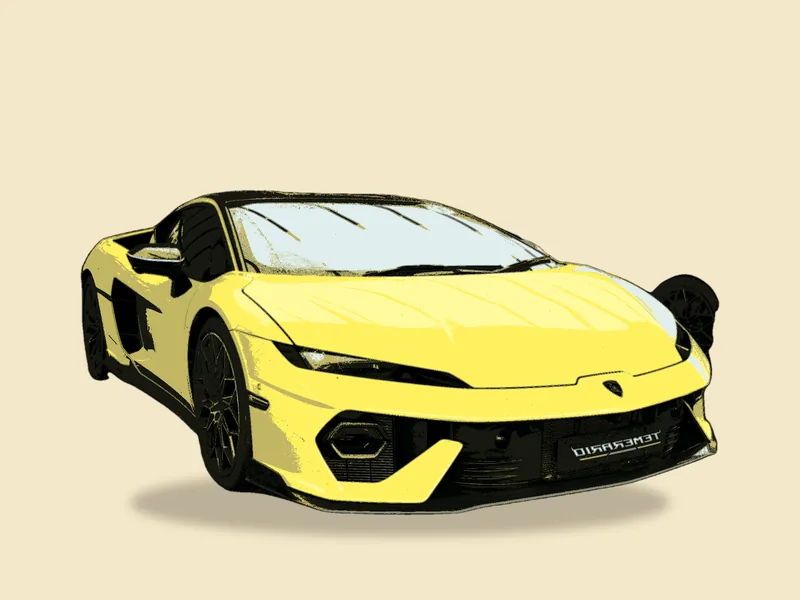
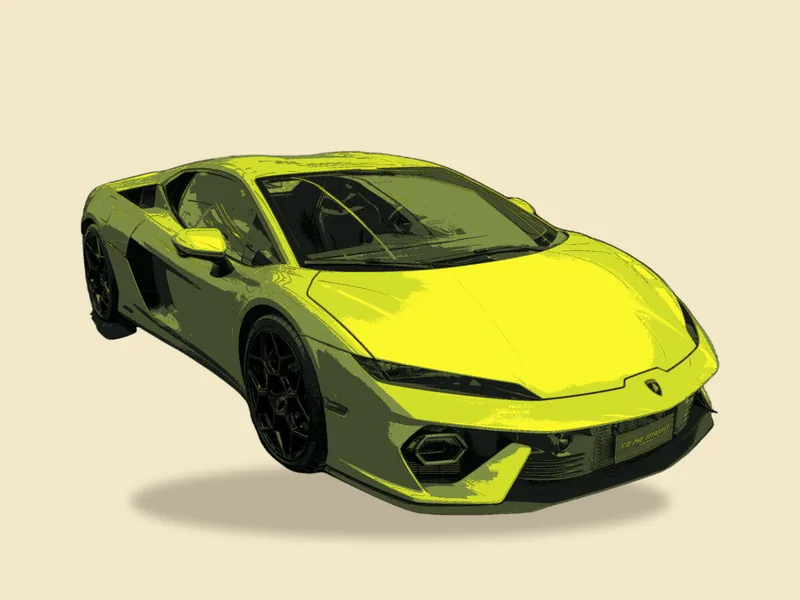
Re-source fifteen more cards after a review of every illustration
A card by card review found faults the automated checks cannot see: a
second Lamborghini merged behind the Temerario, a sign above the Celica's
roofline, a dark object over the MR2's cabin, falcon doors left open, plates
reading backwards on the Taycan and the Purosangue, and a torn F40 tail.

The Cybertruck was on a steep overhead view and is now on a low three-quarter
like its siblings, which also settles the angle noted when it was last
changed. Two carry a caveat: the C 300 photograph is titled as the diesel and
the Celica's as the 1.8 VVTi, both the same body and trim level as the card.

Every replacement shows one car, complete, isolated and facing the way the
track runs, rendered to a scratch directory and looked at first, then judged
again at card size. The folder is 3,402,716 bytes across 126 files.

The sixteenth card, the Challenger SRT Demon 170, is left alone: Commons has
one photograph of it and a rope barrier crosses the car.

diff --git a/public/art/CREDITS.md b/public/art/CREDITS.md
@@ -16,7 +16,7 @@ photographers.
 | aston-martin-dbx707 | Aston Martin DBX707 | [Aston Martin DBX707, Auto 2024, Zurich (PANA0773).jpg](https://commons.wikimedia.org/wiki/File%3AAston%20Martin%20DBX707%2C%20Auto%202024%2C%20Zurich%20%28PANA0773%29.jpg) | Matti Blume | [CC BY-SA 4.0](https://creativecommons.org/licenses/by-sa/4.0/deed.en) |
 | bentley-continental-gt-v8 | Bentley Continental GT V8 | [2019 Bentley Continental GT V8.jpg](https://commons.wikimedia.org/wiki/File%3A2019%20Bentley%20Continental%20GT%20V8.jpg) | Vauxford | [CC BY-SA 4.0](https://creativecommons.org/licenses/by-sa/4.0) |
 | bmw-330i | BMW 330i | [BMW 3-Series (G20) 330i xDrive (2024) (54017667555).jpg](https://commons.wikimedia.org/wiki/File%3ABMW%203-Series%20%28G20%29%20330i%20xDrive%20%282024%29%20%2854017667555%29.jpg) | Charles from Port Chester, New York | [CC BY 2.0](https://creativecommons.org/licenses/by/2.0) |
-| bmw-m3-competition | BMW M3 Competition | [BMW M3 Competition (G80) IMG 1176.jpg](https://commons.wikimedia.org/wiki/File%3ABMW%20M3%20Competition%20%28G80%29%20IMG%201176.jpg) | Alexander-93 | [CC BY-SA 4.0](https://creativecommons.org/licenses/by-sa/4.0) |
+| bmw-m3-competition | BMW M3 Competition | [BMW M3 COMPETITION (G80) China.jpg](https://commons.wikimedia.org/wiki/File%3ABMW%20M3%20COMPETITION%20%28G80%29%20China.jpg) | Dinkun Chen | [CC BY-SA 4.0](https://creativecommons.org/licenses/by-sa/4.0) |
 | bmw-m5-competition | BMW M5 Competition | [BMW M5 Competition (F90) Washington DC Metro Area, USA.jpg](https://commons.wikimedia.org/wiki/File%3ABMW%20M5%20Competition%20%28F90%29%20Washington%20DC%20Metro%20Area%2C%20USA.jpg) | OWS Photography | [CC BY 4.0](https://creativecommons.org/licenses/by/4.0) |
 | bmw-m8-competition | BMW M8 Competition | [BMW M8 Competition (F92) Greater Toronto Area, Canada (1).jpg](https://commons.wikimedia.org/wiki/File%3ABMW%20M8%20Competition%20%28F92%29%20Greater%20Toronto%20Area%2C%20Canada%20%281%29.jpg) | OWS Photography | [CC BY 4.0](https://creativecommons.org/licenses/by/4.0) |
 | bmw-x5-m | BMW X5 M | [BMW X5M (F95) Washington DC Metro Area, USA (1).jpg](https://commons.wikimedia.org/wiki/File%3ABMW%20X5M%20%28F95%29%20Washington%20DC%20Metro%20Area%2C%20USA%20%281%29.jpg) | OWS Photography | [CC BY 4.0](https://creativecommons.org/licenses/by/4.0) |
@@ -44,16 +44,16 @@ photographers.
 | ferrari-458-italia | Ferrari 458 Italia | [2011 Ferrari 458 Italia 3.jpg](https://commons.wikimedia.org/wiki/File%3A2011%20Ferrari%20458%20Italia%203.jpg) | Calreyn88 | [CC BY-SA 4.0](https://creativecommons.org/licenses/by-sa/4.0) |
 | ferrari-812-competizione | Ferrari 812 Competizione | [2023 Ferrari 812 Competizione Aperta 2.jpg](https://commons.wikimedia.org/wiki/File%3A2023%20Ferrari%20812%20Competizione%20Aperta%202.jpg) | Calreyn88 | [CC BY-SA 4.0](https://creativecommons.org/licenses/by-sa/4.0) |
 | ferrari-812-superfast | Ferrari 812 Superfast | [Ferrari 812 Superfast IMG 8829.jpg](https://commons.wikimedia.org/wiki/File%3AFerrari%20812%20Superfast%20IMG%208829.jpg) | Alexander-93 | [CC BY-SA 4.0](https://creativecommons.org/licenses/by-sa/4.0) |
-| ferrari-f40 | Ferrari F40 | [Ferrari F40 GIMS 2024 1X7A2271.jpg](https://commons.wikimedia.org/wiki/File%3AFerrari%20F40%20GIMS%202024%201X7A2271.jpg) | Alexander-93 | [CC BY-SA 4.0](https://creativecommons.org/licenses/by-sa/4.0) |
+| ferrari-f40 | Ferrari F40 | [1990 Ferrari F40 front.jpg](https://commons.wikimedia.org/wiki/File%3A1990%20Ferrari%20F40%20front.jpg) | TTTNIS | [CC0](http://creativecommons.org/publicdomain/zero/1.0/deed.en) |
 | ferrari-f430 | Ferrari F430 | [Ferrari ABA-F430 F430 (23112610123).jpg](https://commons.wikimedia.org/wiki/File%3AFerrari%20ABA-F430%20F430%20%2823112610123%29.jpg) | 先従隗始 | [CC0](http://creativecommons.org/publicdomain/zero/1.0/deed.en) |
-| ferrari-purosangue | Ferrari Purosangue | [2024 Ferrari Purosangue 6.jpg](https://commons.wikimedia.org/wiki/File%3A2024%20Ferrari%20Purosangue%206.jpg) | Calreyn88 | [CC BY-SA 4.0](https://creativecommons.org/licenses/by-sa/4.0) |
+| ferrari-purosangue | Ferrari Purosangue | [Ferrari Purosangue DSC 7008.jpg](https://commons.wikimedia.org/wiki/File%3AFerrari%20Purosangue%20DSC%207008.jpg) | Alexander Migl | [CC BY-SA 4.0](https://creativecommons.org/licenses/by-sa/4.0) |
 | ford-bronco-wildtrak | Ford Bronco Wildtrak | [2022 Ford Bronco Wildtrak, front 3.11.23.jpg](https://commons.wikimedia.org/wiki/File%3A2022%20Ford%20Bronco%20Wildtrak%2C%20front%203.11.23.jpg) | Kevauto | [CC BY-SA 4.0](https://creativecommons.org/licenses/by-sa/4.0) |
 | ford-f-150-lightning | Ford F-150 Lightning | [2022 Ford F-150 Lightning.jpg](https://commons.wikimedia.org/wiki/File%3A2022%20Ford%20F-150%20Lightning.jpg) | Calreyn88 | [CC BY-SA 4.0](https://creativecommons.org/licenses/by-sa/4.0) |
 | ford-f-150-raptor | Ford F-150 Raptor | [2021 Ford F-150 Raptor, front.jpg](https://commons.wikimedia.org/wiki/File%3A2021%20Ford%20F-150%20Raptor%2C%20front.jpg) | Kevauto | [CC BY-SA 4.0](https://creativecommons.org/licenses/by-sa/4.0) |
 | ford-f-150-raptor-r | Ford F-150 Raptor R | [23 Ford F-150 Raptor R.jpg](https://commons.wikimedia.org/wiki/File%3A23%20Ford%20F-150%20Raptor%20R.jpg) | HJUdall | [CC0](http://creativecommons.org/publicdomain/zero/1.0/deed.en) |
 | ford-f-150-xlt | Ford F-150 XLT | [Ford F-150 V8 XLT 2021.jpg](https://commons.wikimedia.org/wiki/File%3AFord%20F-150%20V8%20XLT%202021.jpg) | RL GNZLZ | [CC BY-SA 4.0](https://creativecommons.org/licenses/by-sa/4.0) |
 | ford-mustang-1965-six | Ford Mustang 200 Six (1965) | [1965 Ford Mustang Hardtop (14517078762).jpg](https://commons.wikimedia.org/wiki/File%3A1965%20Ford%20Mustang%20Hardtop%20%2814517078762%29.jpg) | Sicnag | [CC BY 2.0](https://creativecommons.org/licenses/by/2.0) |
-| ford-mustang-289 | Ford Mustang 289 | [1967 Ford Mustang hardtop, red, Golden Super Cruise 2026-07-04.jpg](https://commons.wikimedia.org/wiki/File%3A1967%20Ford%20Mustang%20hardtop%2C%20red%2C%20Golden%20Super%20Cruise%202026-07-04.jpg) | Xnatedawgx | [CC BY-SA 4.0](https://creativecommons.org/licenses/by-sa/4.0) |
+| ford-mustang-289 | Ford Mustang 289 | [1967 Ford Mustang Hardtop in Dark Moss Green Poly, Front Left, 04-28-2023.jpg](https://commons.wikimedia.org/wiki/File%3A1967%20Ford%20Mustang%20Hardtop%20in%20Dark%20Moss%20Green%20Poly%2C%20Front%20Left%2C%2004-28-2023.jpg) | Elise240SX | [CC BY-SA 4.0](https://creativecommons.org/licenses/by-sa/4.0) |
 | ford-mustang-gt | Ford Mustang GT | [Ford Mustang Fastback 5.0 GT (54185175396).jpg](https://commons.wikimedia.org/wiki/File%3AFord%20Mustang%20Fastback%205.0%20GT%20%2854185175396%29.jpg) | Alexandre Prevot from Nancy, France | [CC BY-SA 2.0](https://creativecommons.org/licenses/by-sa/2.0) |
 | ford-mustang-mach-1 | Ford Mustang Mach 1 (2021) | [Ford Mustang VI Mach I Auto Zuerich 2021 IMG 0117.jpg](https://commons.wikimedia.org/wiki/File%3AFord%20Mustang%20VI%20Mach%20I%20Auto%20Zuerich%202021%20IMG%200117.jpg) | Alexander Migl | [CC BY-SA 4.0](https://creativecommons.org/licenses/by-sa/4.0) |
 | ford-mustang-mach-e-gt | Ford Mustang Mach-E GT | [Ford Mustang Mach-E GT IAA 2021 1X7A0176.jpg](https://commons.wikimedia.org/wiki/File%3AFord%20Mustang%20Mach-E%20GT%20IAA%202021%201X7A0176.jpg) | Alexander Migl | [CC BY-SA 4.0](https://creativecommons.org/licenses/by-sa/4.0) |
@@ -70,9 +70,9 @@ photographers.
 | kia-ev6-gt | Kia EV6 GT | [KIA EV6 GT China.jpg](https://commons.wikimedia.org/wiki/File%3AKIA%20EV6%20GT%20China.jpg) | Dinkun Chen | [CC BY-SA 4.0](https://creativecommons.org/licenses/by-sa/4.0) |
 | lamborghini-aventador-svj | Lamborghini Aventador SVJ | [Lamborghini Aventador SVJ 13.jpg](https://commons.wikimedia.org/wiki/File%3ALamborghini%20Aventador%20SVJ%2013.jpg) | Calreyn88 | [CC BY-SA 4.0](https://creativecommons.org/licenses/by-sa/4.0) |
 | lamborghini-murcielago-lp640 | Lamborghini Murciélago LP640 | [Lamborghini Murcielago LP640 LC23.jpg](https://commons.wikimedia.org/wiki/File%3ALamborghini%20Murcielago%20LP640%20LC23.jpg) | MrWalkr | [CC BY-SA 4.0](https://creativecommons.org/licenses/by-sa/4.0) |
-| lamborghini-temerario | Lamborghini Temerario | [Lamborghini Temerario at the 2026 Adelaide Motorsport Festival (DSCF2498).jpg](https://commons.wikimedia.org/wiki/File%3ALamborghini%20Temerario%20at%20the%202026%20Adelaide%20Motorsport%20Festival%20%28DSCF2498%29.jpg) | Yu Chu Chin | [CC BY-SA 4.0](https://creativecommons.org/licenses/by-sa/4.0) |
-| lamborghini-urus | Lamborghini Urus | [Lamborghini Urus S 1X7A6796.jpg](https://commons.wikimedia.org/wiki/File%3ALamborghini%20Urus%20S%201X7A6796.jpg) | Alexander-93 | [CC BY-SA 4.0](https://creativecommons.org/licenses/by-sa/4.0) |
-| lamborghini-urus-se | Lamborghini Urus SE | [2025 Lamborghini Urus SE PHEV - 3996cc 4.0 (789PS) PHEV - Blu Aegir - 02-2025, Front.jpg](https://commons.wikimedia.org/wiki/File%3A2025%20Lamborghini%20Urus%20SE%20PHEV%20-%203996cc%204.0%20%28789PS%29%20PHEV%20-%20Blu%20Aegir%20-%2002-2025%2C%20Front.jpg) | Harvey Bold | [CC0](http://creativecommons.org/publicdomain/zero/1.0/deed.en) |
+| lamborghini-temerario | Lamborghini Temerario | [Lamborghini Temerario.jpg](https://commons.wikimedia.org/wiki/File%3ALamborghini%20Temerario.jpg) | Alexandre Prevot | [CC BY-SA 2.0](https://creativecommons.org/licenses/by-sa/2.0) |
+| lamborghini-urus | Lamborghini Urus | [Lamborghini Urus oblique view dllu 01.jpg](https://commons.wikimedia.org/wiki/File%3ALamborghini%20Urus%20oblique%20view%20dllu%2001.jpg) | Dllu | [CC BY-SA 4.0](https://creativecommons.org/licenses/by-sa/4.0) |
+| lamborghini-urus-se | Lamborghini Urus SE | [Lamborghini Urus SE 001.jpg](https://commons.wikimedia.org/wiki/File%3ALamborghini%20Urus%20SE%20001.jpg) | JustAnotherCarDesigner | [CC0](http://creativecommons.org/publicdomain/zero/1.0/deed.en) |
 | land-rover-defender-110 | Land Rover Defender 110 | [Land Rover Defender 110 (L663) 1X7A1919.jpg](https://commons.wikimedia.org/wiki/File%3ALand%20Rover%20Defender%20110%20%28L663%29%201X7A1919.jpg) | Alexander-93 | [CC BY-SA 4.0](https://creativecommons.org/licenses/by-sa/4.0) |
 | lexus-es-250 | Lexus ES 250 | [LEXUS ES 200 (XZ10) China (184).jpg](https://commons.wikimedia.org/wiki/File%3ALEXUS%20ES%20200%20%28XZ10%29%20China%20%28184%29.jpg) | Dinkun Chen | [CC BY-SA 4.0](https://creativecommons.org/licenses/by-sa/4.0) |
 | lexus-is-300 | Lexus IS 300 | [2021 Lexus IS 300 AWD, front 3.26.21.jpg](https://commons.wikimedia.org/wiki/File%3A2021%20Lexus%20IS%20300%20AWD%2C%20front%203.26.21.jpg) | Kevauto | [CC BY-SA 4.0](https://creativecommons.org/licenses/by-sa/4.0) |
@@ -90,7 +90,7 @@ photographers.
 | mercedes-amg-c-63-s | Mercedes-AMG C 63 S (W205) | [MERCEDES-AMG C 63 (W205) (3).jpg](https://commons.wikimedia.org/wiki/File%3AMERCEDES-AMG%20C%2063%20%28W205%29%20%283%29.jpg) | Dinkun Chen | [CC BY-SA 4.0](https://creativecommons.org/licenses/by-sa/4.0) |
 | mercedes-amg-g-63 | Mercedes-AMG G 63 | [MERCEDES-AMG G 63 (W463) China (3).jpg](https://commons.wikimedia.org/wiki/File%3AMERCEDES-AMG%20G%2063%20%28W463%29%20China%20%283%29.jpg) | Dinkun Chen | [CC BY-SA 4.0](https://creativecommons.org/licenses/by-sa/4.0) |
 | mercedes-amg-gt-r | Mercedes-AMG GT R | [Mercedes-AMG GT R Coupé (C190, 2021) (52229185921).jpg](https://commons.wikimedia.org/wiki/File%3AMercedes-AMG%20GT%20R%20Coup%C3%A9%20%28C190%2C%202021%29%20%2852229185921%29.jpg) | Charles from Port Chester, New York | [CC BY 2.0](https://creativecommons.org/licenses/by/2.0) |
-| mercedes-benz-c-300 | Mercedes-Benz C 300 | [Mercedes-Benz W206 C 300 4MATIC AMG Line Polar White (6).jpg](https://commons.wikimedia.org/wiki/File%3AMercedes-Benz%20W206%20C%20300%204MATIC%20AMG%20Line%20Polar%20White%20%286%29.jpg) | Damian B Oh | [CC BY-SA 4.0](https://creativecommons.org/licenses/by-sa/4.0) |
+| mercedes-benz-c-300 | Mercedes-Benz C 300 | [Mercedes-Benz C 300 d AMG Line (W 206) – f 10032024.jpg](https://commons.wikimedia.org/wiki/File%3AMercedes-Benz%20C%20300%20d%20AMG%20Line%20%28W%20206%29%20%E2%80%93%20f%2010032024.jpg) | © M 93 | [CC BY-SA 3.0 de](https://creativecommons.org/licenses/by-sa/3.0/de/deed.en) |
 | mercedes-benz-e-300 | Mercedes-Benz E 300 | [Mercedes-Benz E300 (W213) Washington DC Metro Area, USA (3).jpg](https://commons.wikimedia.org/wiki/File%3AMercedes-Benz%20E300%20%28W213%29%20Washington%20DC%20Metro%20Area%2C%20USA%20%283%29.jpg) | OWS Photography | [CC BY 4.0](https://creativecommons.org/licenses/by/4.0) |
 | mitsubishi-lancer-evolution-ix | Mitsubishi Lancer Evolution IX | [Mitsubishi Lancer Evolution IX (28469868127).jpg](https://commons.wikimedia.org/wiki/File%3AMitsubishi%20Lancer%20Evolution%20IX%20%2828469868127%29.jpg) | FotoSleuth | [CC BY 2.0](https://creativecommons.org/licenses/by/2.0) |
 | nissan-240sx-s14 | Nissan 240SX (S14) | [1996 Nissan 240SX S14.jpg](https://commons.wikimedia.org/wiki/File%3A1996%20Nissan%20240SX%20S14.jpg) | Calreyn88 | [CC BY-SA 4.0](https://creativecommons.org/licenses/by-sa/4.0) |
@@ -102,13 +102,13 @@ photographers.
 | nissan-skyline-gt-r-r34 | Nissan Skyline GT-R | [Nissan Skyline GT-R R34, 09-21-2025.jpg](https://commons.wikimedia.org/wiki/File%3ANissan%20Skyline%20GT-R%20R34%2C%2009-21-2025.jpg) | 2000chevymontecarlo | [CC BY-SA 4.0](https://creativecommons.org/licenses/by-sa/4.0) |
 | plymouth-hemi-cuda | Plymouth Hemi 'Cuda | [1970 Plymouth Hemi 'Cuda (31006971013).jpg](https://commons.wikimedia.org/wiki/File%3A1970%20Plymouth%20Hemi%20%27Cuda%20%2831006971013%29.jpg) | Greg Gjerdingen from Willmar, USA | [CC BY 2.0](https://creativecommons.org/licenses/by/2.0) |
 | pontiac-firebird-trans-am-1977 | Pontiac Firebird Trans Am | [1977 Pontiac Firebird Trans Am, front right, 06-21-2023.jpg](https://commons.wikimedia.org/wiki/File%3A1977%20Pontiac%20Firebird%20Trans%20Am%2C%20front%20right%2C%2006-21-2023.jpg) | MercurySable99 | [CC BY-SA 4.0](https://creativecommons.org/licenses/by-sa/4.0) |
-| porsche-718-cayman-gts | Porsche 718 Cayman GTS 4.0 | [2022 Porsche 718 Cayman GTS (24806).jpg](https://commons.wikimedia.org/wiki/File%3A2022%20Porsche%20718%20Cayman%20GTS%20%2824806%29.jpg) | Calreyn88 | [CC BY-SA 4.0](https://creativecommons.org/licenses/by-sa/4.0) |
+| porsche-718-cayman-gts | Porsche 718 Cayman GTS 4.0 | [Porsche 718 Cayman GTS - 54636142147.jpg](https://commons.wikimedia.org/wiki/File%3APorsche%20718%20Cayman%20GTS%20-%2054636142147.jpg) | Alexandre Prevot | [CC BY-SA 4.0](https://creativecommons.org/licenses/by-sa/4.0) |
 | porsche-911-carrera-s | Porsche 911 Carrera S | [Porsche 992 Carrera S coupe IMG 5832.jpg](https://commons.wikimedia.org/wiki/File%3APorsche%20992%20Carrera%20S%20coupe%20IMG%205832.jpg) | Alexander Migl | [CC BY-SA 4.0](https://creativecommons.org/licenses/by-sa/4.0) |
 | porsche-911-gt3-992 | Porsche 911 GT3 | [Porsche 992 GT3 1X7A0323.jpg](https://commons.wikimedia.org/wiki/File%3APorsche%20992%20GT3%201X7A0323.jpg) | Alexander Migl | [CC BY-SA 4.0](https://creativecommons.org/licenses/by-sa/4.0) |
 | porsche-911-turbo-s-992 | Porsche 911 Turbo S (992) | [Porsche 911 Turbo S (992) Greater Toronto Area, Canada.jpg](https://commons.wikimedia.org/wiki/File%3APorsche%20911%20Turbo%20S%20%28992%29%20Greater%20Toronto%20Area%2C%20Canada.jpg) | OWS Photography | [CC BY 4.0](https://creativecommons.org/licenses/by/4.0) |
 | porsche-914 | Porsche 914 (1.7) | [2007-06-17 VW-Porsche 914 (kl).JPG](https://commons.wikimedia.org/wiki/File%3A2007-06-17%20VW-Porsche%20914%20%28kl%29.JPG) | Spurzem | [CC BY-SA 2.0 de](https://creativecommons.org/licenses/by-sa/2.0/de/deed.en) |
 | porsche-boxster-s-987 | Porsche Boxster S (987) | [2008 Porsche 987 Boxster (15225082412).jpg](https://commons.wikimedia.org/wiki/File%3A2008%20Porsche%20987%20Boxster%20%2815225082412%29.jpg) | free photos & art | [CC BY 2.0](https://creativecommons.org/licenses/by/2.0) |
-| porsche-taycan-turbo-s | Porsche Taycan Turbo S | [2020 Porsche Taycan Turbo S (21742).jpg](https://commons.wikimedia.org/wiki/File%3A2020%20Porsche%20Taycan%20Turbo%20S%20%2821742%29.jpg) | Calreyn88 | [CC BY-SA 4.0](https://creativecommons.org/licenses/by-sa/4.0) |
+| porsche-taycan-turbo-s | Porsche Taycan Turbo S | [Porsche Taycan Turbo S White (1).jpg](https://commons.wikimedia.org/wiki/File%3APorsche%20Taycan%20Turbo%20S%20White%20%281%29.jpg) | Damian B Oh | [CC BY-SA 4.0](https://creativecommons.org/licenses/by-sa/4.0) |
 | ram-1500-trx | Ram 1500 TRX | [Ram 1500 TRX (13803).jpg](https://commons.wikimedia.org/wiki/File%3ARam%201500%20TRX%20%2813803%29.jpg) | Calreyn88 | [CC BY-SA 4.0](https://creativecommons.org/licenses/by-sa/4.0) |
 | range-rover-p530 | Range Rover | [Range Rover (L460) Washington DC Metro Area, USA (8).jpg](https://commons.wikimedia.org/wiki/File%3ARange%20Rover%20%28L460%29%20Washington%20DC%20Metro%20Area%2C%20USA%20%288%29.jpg) | OWS Photography | [CC BY 4.0](https://creativecommons.org/licenses/by/4.0) |
 | rimac-nevera | Rimac Nevera | [Rimac - Nevera 10.jpg](https://commons.wikimedia.org/wiki/File%3ARimac%20-%20Nevera%2010.jpg) | Miroslav | [CC BY-SA 4.0](https://creativecommons.org/licenses/by-sa/4.0) |
@@ -116,19 +116,19 @@ photographers.
 | rolls-royce-phantom | Rolls-Royce Phantom | [Rolls-Royce Phantom, Geneva International Motor Show 2018, Le Grand-Saconnex (1X7A1220).jpg](https://commons.wikimedia.org/wiki/File%3ARolls-Royce%20Phantom%2C%20Geneva%20International%20Motor%20Show%202018%2C%20Le%20Grand-Saconnex%20%281X7A1220%29.jpg) | Matti Blume | [CC BY-SA 4.0](https://creativecommons.org/licenses/by-sa/4.0) |
 | rolls-royce-wraith | Rolls-Royce Wraith | [Rolls-Royce Wraith (II) Washington DC Metro Area, USA (1.2).jpg](https://commons.wikimedia.org/wiki/File%3ARolls-Royce%20Wraith%20%28II%29%20Washington%20DC%20Metro%20Area%2C%20USA%20%281.2%29.jpg) | OWS Photography | [CC BY 4.0](https://creativecommons.org/licenses/by/4.0) |
 | subaru-wrx-sti | Subaru WRX STI | [Subaru WRX STI - Blue.jpg](https://commons.wikimedia.org/wiki/File%3ASubaru%20WRX%20STI%20-%20Blue.jpg) | Motor Verso | [CC BY 2.0](https://creativecommons.org/licenses/by/2.0) |
-| tesla-cybertruck-cyberbeast | Tesla Cybertruck Cyberbeast | [Tesla Cybertruck Washington DC Metro Area, USA (5).jpg](https://commons.wikimedia.org/wiki/File%3ATesla%20Cybertruck%20Washington%20DC%20Metro%20Area%2C%20USA%20%285%29.jpg) | OWS Photography | [CC BY 4.0](https://creativecommons.org/licenses/by/4.0) |
+| tesla-cybertruck-cyberbeast | Tesla Cybertruck Cyberbeast | [2024 Tesla Cybertruck Foundation Series IMG 0576.jpg](https://commons.wikimedia.org/wiki/File%3A2024%20Tesla%20Cybertruck%20Foundation%20Series%20IMG%200576.jpg) | Alexander-93 | [CC BY-SA 4.0](https://creativecommons.org/licenses/by-sa/4.0) |
 | tesla-model-3-performance | Tesla Model 3 Performance | [2024 Tesla Model 3 Performance front view 03.png](https://commons.wikimedia.org/wiki/File%3A2024%20Tesla%20Model%203%20Performance%20front%20view%2003.png) | iMoD Official | [CC BY 3.0](https://creativecommons.org/licenses/by/3.0) |
 | tesla-model-s-plaid | Tesla Model S Plaid | [22 Tesla Model S Plaid.jpg](https://commons.wikimedia.org/wiki/File%3A22%20Tesla%20Model%20S%20Plaid.jpg) | HJUdall | [CC0](http://creativecommons.org/publicdomain/zero/1.0/deed.en) |
 | tesla-model-x-plaid | Tesla Model X Plaid | [Tesla Model X Plaid Shadow Grey 01.jpg](https://commons.wikimedia.org/wiki/File%3ATesla%20Model%20X%20Plaid%20Shadow%20Grey%2001.jpg) | Ethan Llamas | [CC BY-SA 4.0](https://creativecommons.org/licenses/by-sa/4.0) |
 | tesla-model-y | Tesla Model Y | [Tesla Model Y 1X7A6211.jpg](https://commons.wikimedia.org/wiki/File%3ATesla%20Model%20Y%201X7A6211.jpg) | Alexander Migl | [CC BY-SA 4.0](https://creativecommons.org/licenses/by-sa/4.0) |
 | toyota-4runner-sr5 | Toyota 4Runner SR5 | [23 Toyota 4Runner SR5.jpg](https://commons.wikimedia.org/wiki/File%3A23%20Toyota%204Runner%20SR5.jpg) | HJUdall | [CC0](http://creativecommons.org/publicdomain/zero/1.0/deed.en) |
-| toyota-celica-gt-s | Toyota Celica GT-S (2000) | [Toyota CELICA 1.8 SS-I (ST230) front.JPG](https://commons.wikimedia.org/wiki/File%3AToyota%20CELICA%201.8%20SS-I%20%28ST230%29%20front.JPG) | Tokumeigakarinoaoshima | [CC0](http://creativecommons.org/publicdomain/zero/1.0/deed.en) |
+| toyota-celica-gt-s | Toyota Celica GT-S (2000) | [2003 Toyota Celica VVTi 1.8.jpg](https://commons.wikimedia.org/wiki/File%3A2003%20Toyota%20Celica%20VVTi%201.8.jpg) | Vauxford | [CC BY-SA 4.0](https://creativecommons.org/licenses/by-sa/4.0) |
 | toyota-corolla-ae86 | Toyota Corolla GT-S | [Toyota Corolla GT-S (AE86, 1986) (54804789331).jpg](https://commons.wikimedia.org/wiki/File%3AToyota%20Corolla%20GT-S%20%28AE86%2C%201986%29%20%2854804789331%29.jpg) | Charles from Port Chester, New York | [CC0](http://creativecommons.org/publicdomain/zero/1.0/deed.en) |
-| toyota-gr-supra-3-0 | Toyota GR Supra 3.0 | [Dülmen, Auto Bertels, Toyota GR Supra -- 2021 -- 9539.jpg](https://commons.wikimedia.org/wiki/File%3AD%C3%BClmen%2C%20Auto%20Bertels%2C%20Toyota%20GR%20Supra%20--%202021%20--%209539.jpg) | Dietmar Rabich | [CC BY-SA 4.0](https://creativecommons.org/licenses/by-sa/4.0) |
+| toyota-gr-supra-3-0 | Toyota GR Supra 3.0 | [2023 Toyota GR Supra 3.0 in Cu Later, Front Left, 04-23-2023.jpg](https://commons.wikimedia.org/wiki/File%3A2023%20Toyota%20GR%20Supra%203.0%20in%20Cu%20Later%2C%20Front%20Left%2C%2004-23-2023.jpg) | Elise240SX | [CC BY-SA 4.0](https://creativecommons.org/licenses/by-sa/4.0) |
 | toyota-gr86 | Toyota GR86 | [2022 Toyota GR86 Premium in Halo, Front Right, 09-27-2022.jpg](https://commons.wikimedia.org/wiki/File%3A2022%20Toyota%20GR86%20Premium%20in%20Halo%2C%20Front%20Right%2C%2009-27-2022.jpg) | Elise240SX | [CC BY-SA 4.0](https://creativecommons.org/licenses/by-sa/4.0) |
 | toyota-land-cruiser-2024 | Toyota Land Cruiser (2024) | [2024 Toyota Land Cruiser Prado 2.4 Turbo in Avant Garde Bronze, front left.jpg](https://commons.wikimedia.org/wiki/File%3A2024%20Toyota%20Land%20Cruiser%20Prado%202.4%20Turbo%20in%20Avant%20Garde%20Bronze%2C%20front%20left.jpg) | Ethan Llamas | [CC BY-SA 4.0](https://creativecommons.org/licenses/by-sa/4.0) |
-| toyota-mr2-spyder | Toyota MR2 Spyder | [2000-2002 Toyota MR2 Spyder -- 11-26-2011.jpg](https://commons.wikimedia.org/wiki/File%3A2000-2002%20Toyota%20MR2%20Spyder%20--%2011-26-2011.jpg) | IFCAR | Public domain |
-| toyota-prius | Toyota Prius | [Toyota Prius (XW60) Plug-in Hybrid Automesse Ludwigsburg 2023 1X7A0004.jpg](https://commons.wikimedia.org/wiki/File%3AToyota%20Prius%20%28XW60%29%20Plug-in%20Hybrid%20Automesse%20Ludwigsburg%202023%201X7A0004.jpg) | Alexander-93 | [CC BY-SA 4.0](https://creativecommons.org/licenses/by-sa/4.0) |
+| toyota-mr2-spyder | Toyota MR2 Spyder | [2005 Toyota MR2 Spyder, front left, 06-19-2023.jpg](https://commons.wikimedia.org/wiki/File%3A2005%20Toyota%20MR2%20Spyder%2C%20front%20left%2C%2006-19-2023.jpg) | MercurySable99 | [CC BY-SA 4.0](https://creativecommons.org/licenses/by-sa/4.0) |
+| toyota-prius | Toyota Prius | [2023 Toyota Prius Z HEV.jpg](https://commons.wikimedia.org/wiki/File%3A2023%20Toyota%20Prius%20Z%20HEV.jpg) | TTTNIS | [CC0](http://creativecommons.org/publicdomain/zero/1.0/deed.en) |
 | toyota-supra-turbo-a80 | Toyota Supra Turbo | [Toyota Supra SZ (A80) front.jpg](https://commons.wikimedia.org/wiki/File%3AToyota%20Supra%20SZ%20%28A80%29%20front.jpg) | Tokumeigakarinoaoshima | [CC0](http://creativecommons.org/publicdomain/zero/1.0/deed.en) |
 | toyota-tacoma-trd | Toyota Tacoma TRD | [2020 Toyota Tacoma TRD Pro front NYIAS 2019.jpg](https://commons.wikimedia.org/wiki/File%3A2020%20Toyota%20Tacoma%20TRD%20Pro%20front%20NYIAS%202019.jpg) | Kevauto | [CC BY-SA 4.0](https://creativecommons.org/licenses/by-sa/4.0) |
 | volkswagen-id-4-pro | Volkswagen ID.4 Pro | [2020 Volkswagen ID.4 Pro (Netherlands) front view.jpg](https://commons.wikimedia.org/wiki/File%3A2020%20Volkswagen%20ID.4%20Pro%20%28Netherlands%29%20front%20view.jpg) | Dennis Elzinga | [CC BY 2.0](https://creativecommons.org/licenses/by/2.0) |
